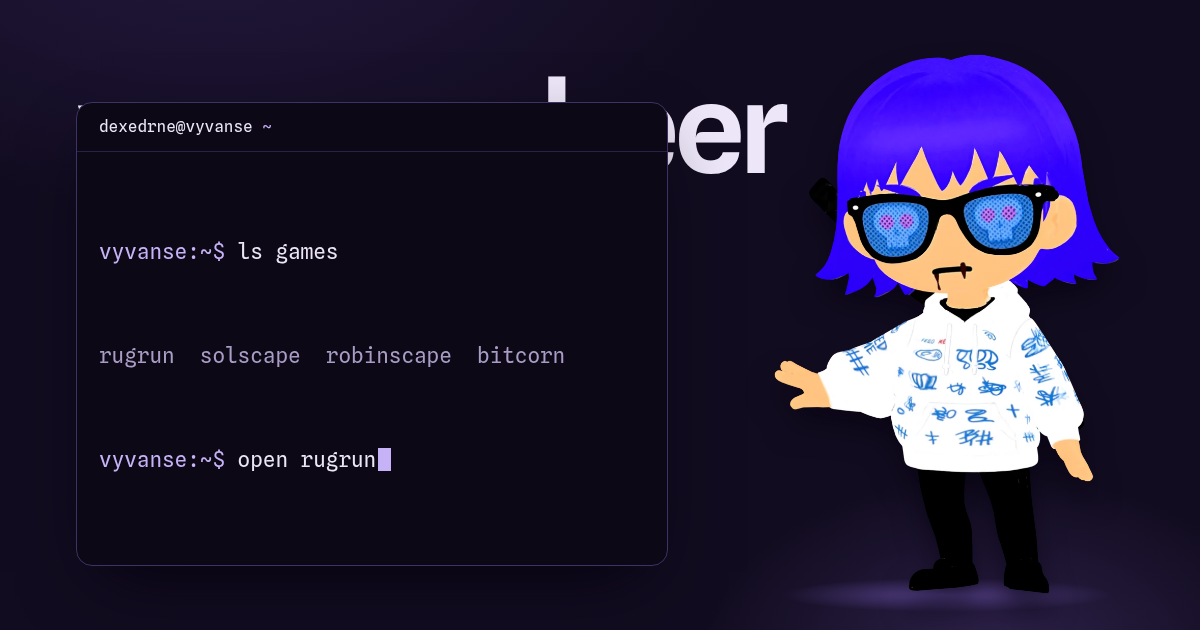
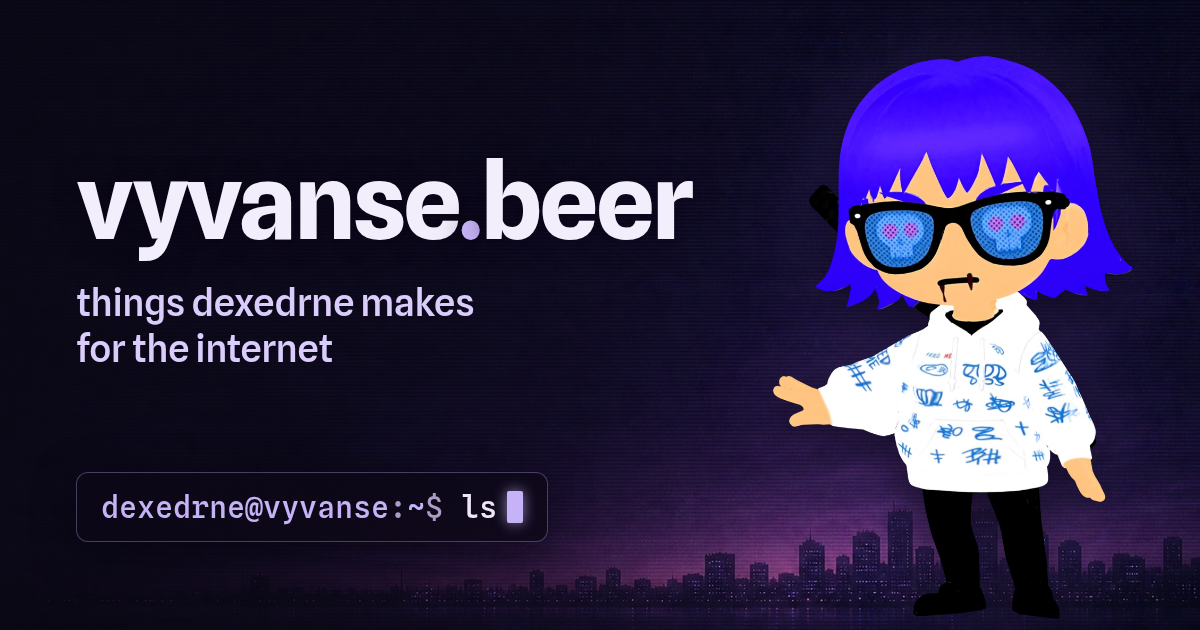
Share card: skyline backdrop, wordmark and prompt; complete the embed tags
New 1200x630 share card with the wordmark, tagline, a terminal prompt and
Radbro #4764 over a midnight-purple skyline. Add og:image:type and
twitter:image:alt, and describe the new card in the alt text.

diff --git a/scripts/og-card.html b/scripts/og-card.html
@@ -24,101 +24,89 @@
       }
       body {
         position: relative;
-        background:
-          radial-gradient(760px 420px at 18% -80px, #22183d, transparent 70%),
-          radial-gradient(420px 260px at 83% 104%, rgb(142 109 224 / 0.22), transparent 70%),
-          #120c20;
+        background: #120c20 url('og-backdrop.jpg') center / cover no-repeat;
         color: #ece6f8;
         font-family: 'Spline Sans', sans-serif;
       }
-      .text {
+      /* darken the left side so the text holds up at thumbnail size */
+      .veil {
+        position: absolute;
+        inset: 0;
+        background: linear-gradient(90deg, rgb(12 8 22 / 0.72) 0%, rgb(12 8 22 / 0.45) 48%, rgb(12 8 22 / 0) 72%);
+      }
+      .copy {
         position: absolute;
         left: 76px;
-        top: 70px;
+        top: 150px;
+        width: 700px;
       }
       h1 {
         margin: 0;
-        font-size: 124px;
-        font-weight: 600;
-        line-height: 0.95;
-        letter-spacing: -0.045em;
+        font-weight: 700;
+        font-size: 104px;
+        line-height: 1;
+        letter-spacing: -0.035em;
+        color: #f3eefc;
+        text-shadow: 0 2px 24px rgb(10 4 22 / 0.6);
+      }
+      h1 span {
+        color: #c6b3f7;
       }
       p {
-        margin: 22px 0 0;
-        color: #a99dc6;
-        font-size: 33px;
-        line-height: 1.3;
+        margin: 26px 0 0;
+        font-size: 38px;
+        font-weight: 500;
+        line-height: 1.2;
+        letter-spacing: -0.01em;
+        color: #dacdfb;
       }
-      .term {
+      .prompt {
         position: absolute;
         left: 76px;
-        bottom: 64px;
-        width: 590px;
-        border: 1px solid #3f3264;
-        border-radius: 16px;
-        background: #0c0816;
-        font: 400 21px/1.65 'Spline Sans Mono', monospace;
-        box-shadow: 0 30px 70px -24px rgb(4 0 12 / 0.9);
-      }
-      .bar {
-        padding: 11px 22px;
-        border-bottom: 1px solid #2b2146;
+        bottom: 88px;
+        display: inline-flex;
+        align-items: center;
+        padding: 16px 24px;
+        border-radius: 12px;
+        background: rgb(12 8 22 / 0.8);
+        border: 1.5px solid rgb(198 179 247 / 0.32);
+        box-shadow: 0 10px 40px rgb(4 0 12 / 0.5);
+        font-family: 'Spline Sans Mono', monospace;
+        font-size: 30px;
+        font-weight: 500;
         color: #ece6f8;
-        font-size: 16px;
       }
-      .bar span {
+      .u {
         color: #c6b3f7;
       }
-      .out {
-        padding: 14px 22px 18px;
-        white-space: pre;
-      }
-      .p {
-        color: #c6b3f7;
-      }
-      .m {
+      .d {
         color: #a99dc6;
       }
-      .cur {
+      .cursor {
         display: inline-block;
-        width: 0.6em;
-        height: 1.1em;
-        margin-left: 2px;
-        vertical-align: -0.2em;
+        width: 16px;
+        height: 32px;
+        margin-left: 10px;
+        border-radius: 2px;
         background: #c6b3f7;
+        box-shadow: 0 0 14px rgb(198 179 247 / 0.7);
       }
       .bro {
         position: absolute;
-        right: 70px;
-        bottom: 26px;
-        height: 560px;
-        filter: drop-shadow(0 18px 14px rgb(4 0 12 / 0.5));
-      }
-      .floor {
-        position: absolute;
-        right: 88px;
-        bottom: 18px;
-        width: 330px;
-        height: 34px;
-        border-radius: 50%;
-        background: radial-gradient(closest-side, rgb(142 109 224 / 0.45), transparent);
+        right: 56px;
+        bottom: 0;
+        height: 585px;
+        filter: drop-shadow(0 18px 26px rgb(4 0 12 / 0.65)) drop-shadow(0 0 40px rgb(142 109 224 / 0.2));
       }
     </style>
   </head>
   <body>
-    <div class="text">
-      <h1>vyvanse.beer</h1>
-      <p>Browser games, meme sites and<br />small worlds by dexedrne.</p>
+    <div class="veil"></div>
+    <div class="copy">
+      <h1>vyvanse<span>.</span>beer</h1>
+      <p>things dexedrne makes<br />for the internet</p>
     </div>
-    <div class="term">
-      <div class="bar">dexedrne@vyvanse <span>~</span></div>
-      <div class="out">
-        <div><span class="p">vyvanse:~$</span> ls games</div>
-        <div class="m">rugrun  solscape  robinscape  bitcorn</div>
-        <div><span class="p">vyvanse:~$</span> open rugrun<span class="cur"></span></div>
-      </div>
-    </div>
-    <div class="floor"></div>
+    <div class="prompt"><span class="u">dexedrne@vyvanse</span><span class="d">:</span><span class="u">~</span><span class="d">$</span>&nbsp;ls<span class="cursor"></span></div>
     <img class="bro" src="../public/img/radbros/radbro-4764-hero.webp" alt="" />
   </body>
 </html>

diff --git a/index.html b/index.html
@@ -21,7 +21,8 @@
     <meta property="og:image" content="https://vyvanse.beer/og.png" />
     <meta property="og:image:width" content="1200" />
     <meta property="og:image:height" content="630" />
-    <meta property="og:image:alt" content="vyvanse.beer on a midnight-purple page beside a terminal running open rugrun, with Radbro #4764 waving." />
+    <meta property="og:image:type" content="image/png" />
+    <meta property="og:image:alt" content="vyvanse.beer: things dexedrne makes for the internet. A terminal prompt over a midnight-purple city skyline, with Radbro #4764 waving." />
 
     <meta name="twitter:card" content="summary_large_image" />
     <meta name="twitter:site" content="@dexedrne" />
@@ -29,6 +30,7 @@
     <meta name="twitter:title" content="vyvanse.beer" />
     <meta name="twitter:description" content="Browser games, meme sites and small worlds by dexedrne. Open them from the terminal." />
     <meta name="twitter:image" content="https://vyvanse.beer/og.png" />
+    <meta name="twitter:image:alt" content="vyvanse.beer: things dexedrne makes for the internet. A terminal prompt over a midnight-purple city skyline, with Radbro #4764 waving." />
 
     <script>document.documentElement.classList.add('js')</script>
     <link rel="stylesheet" href="/src/style.css" />
